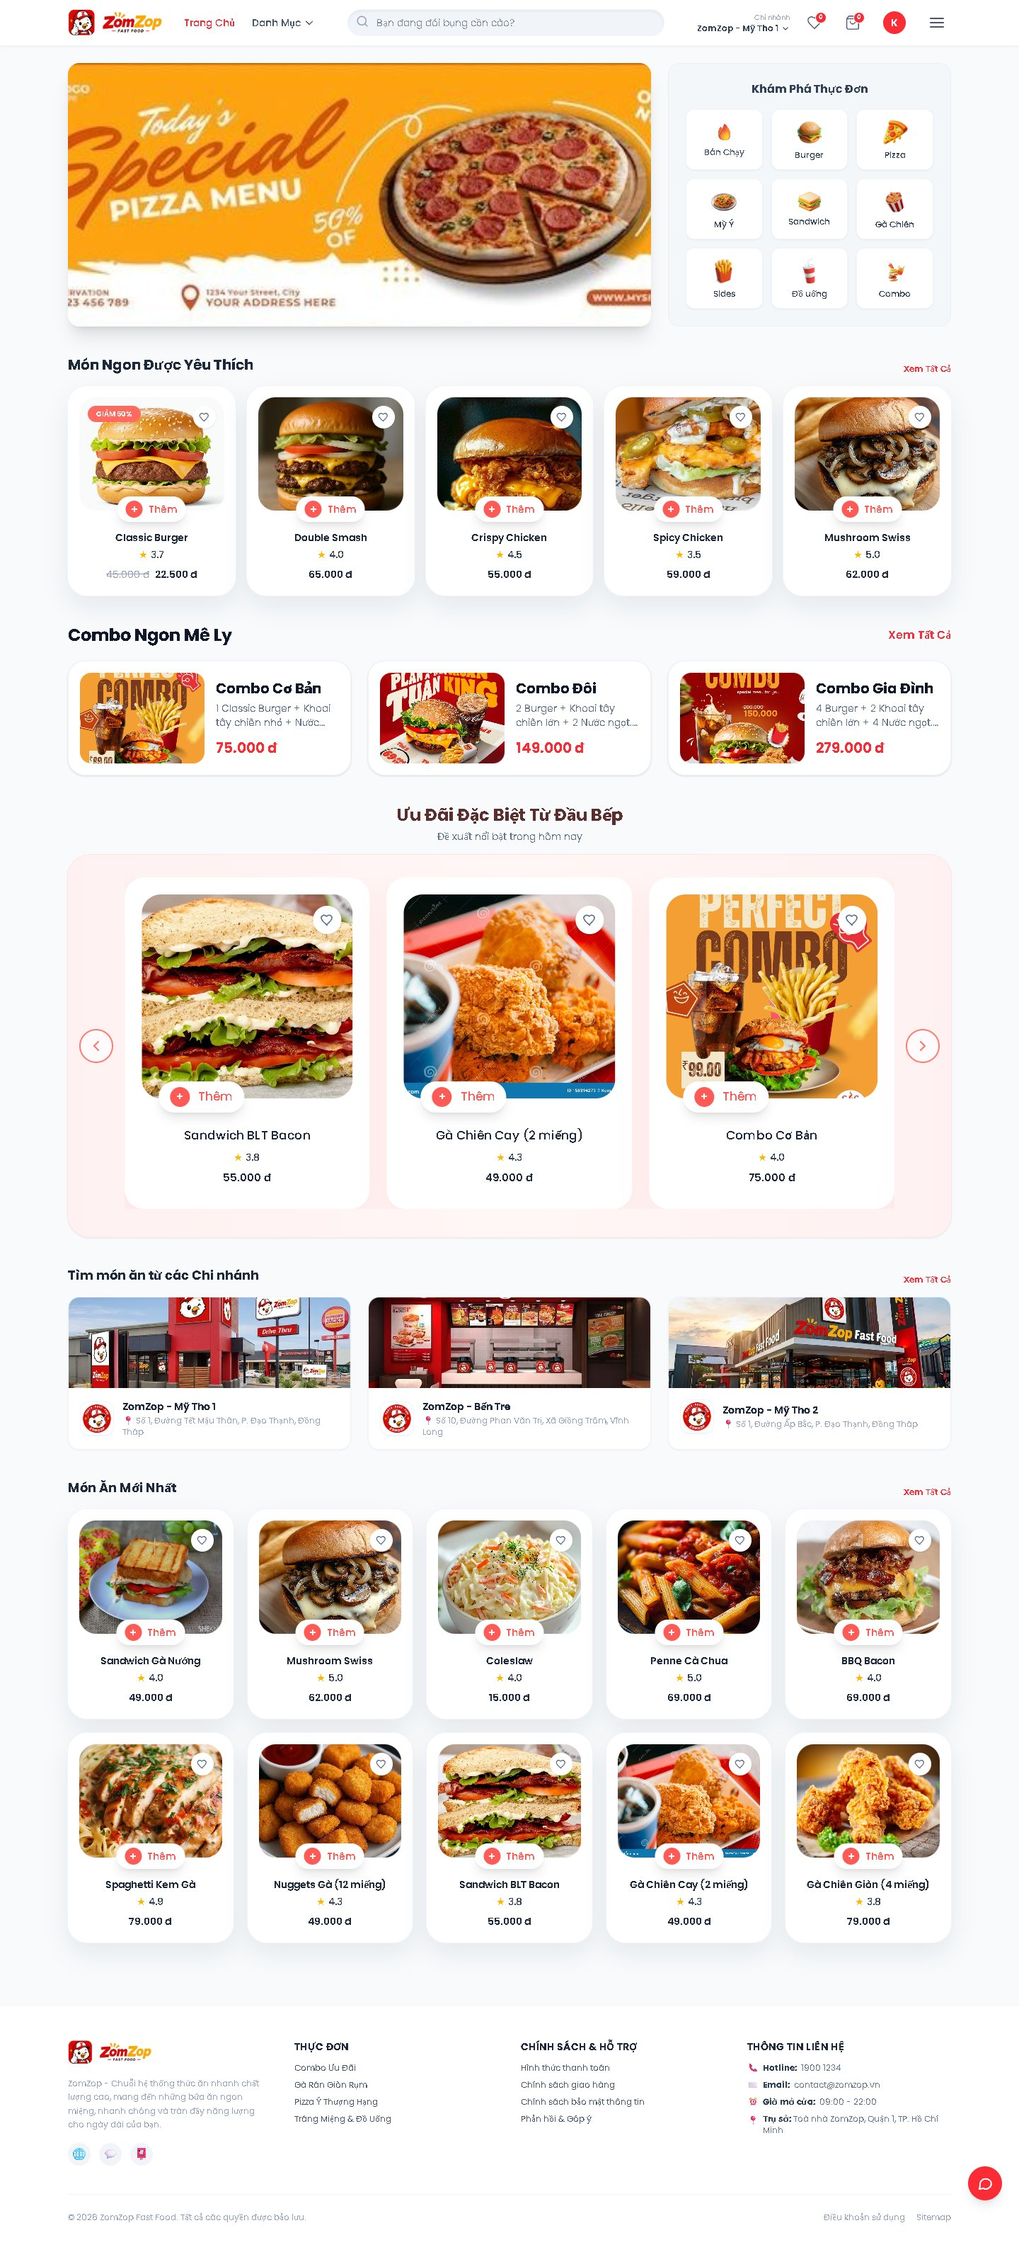
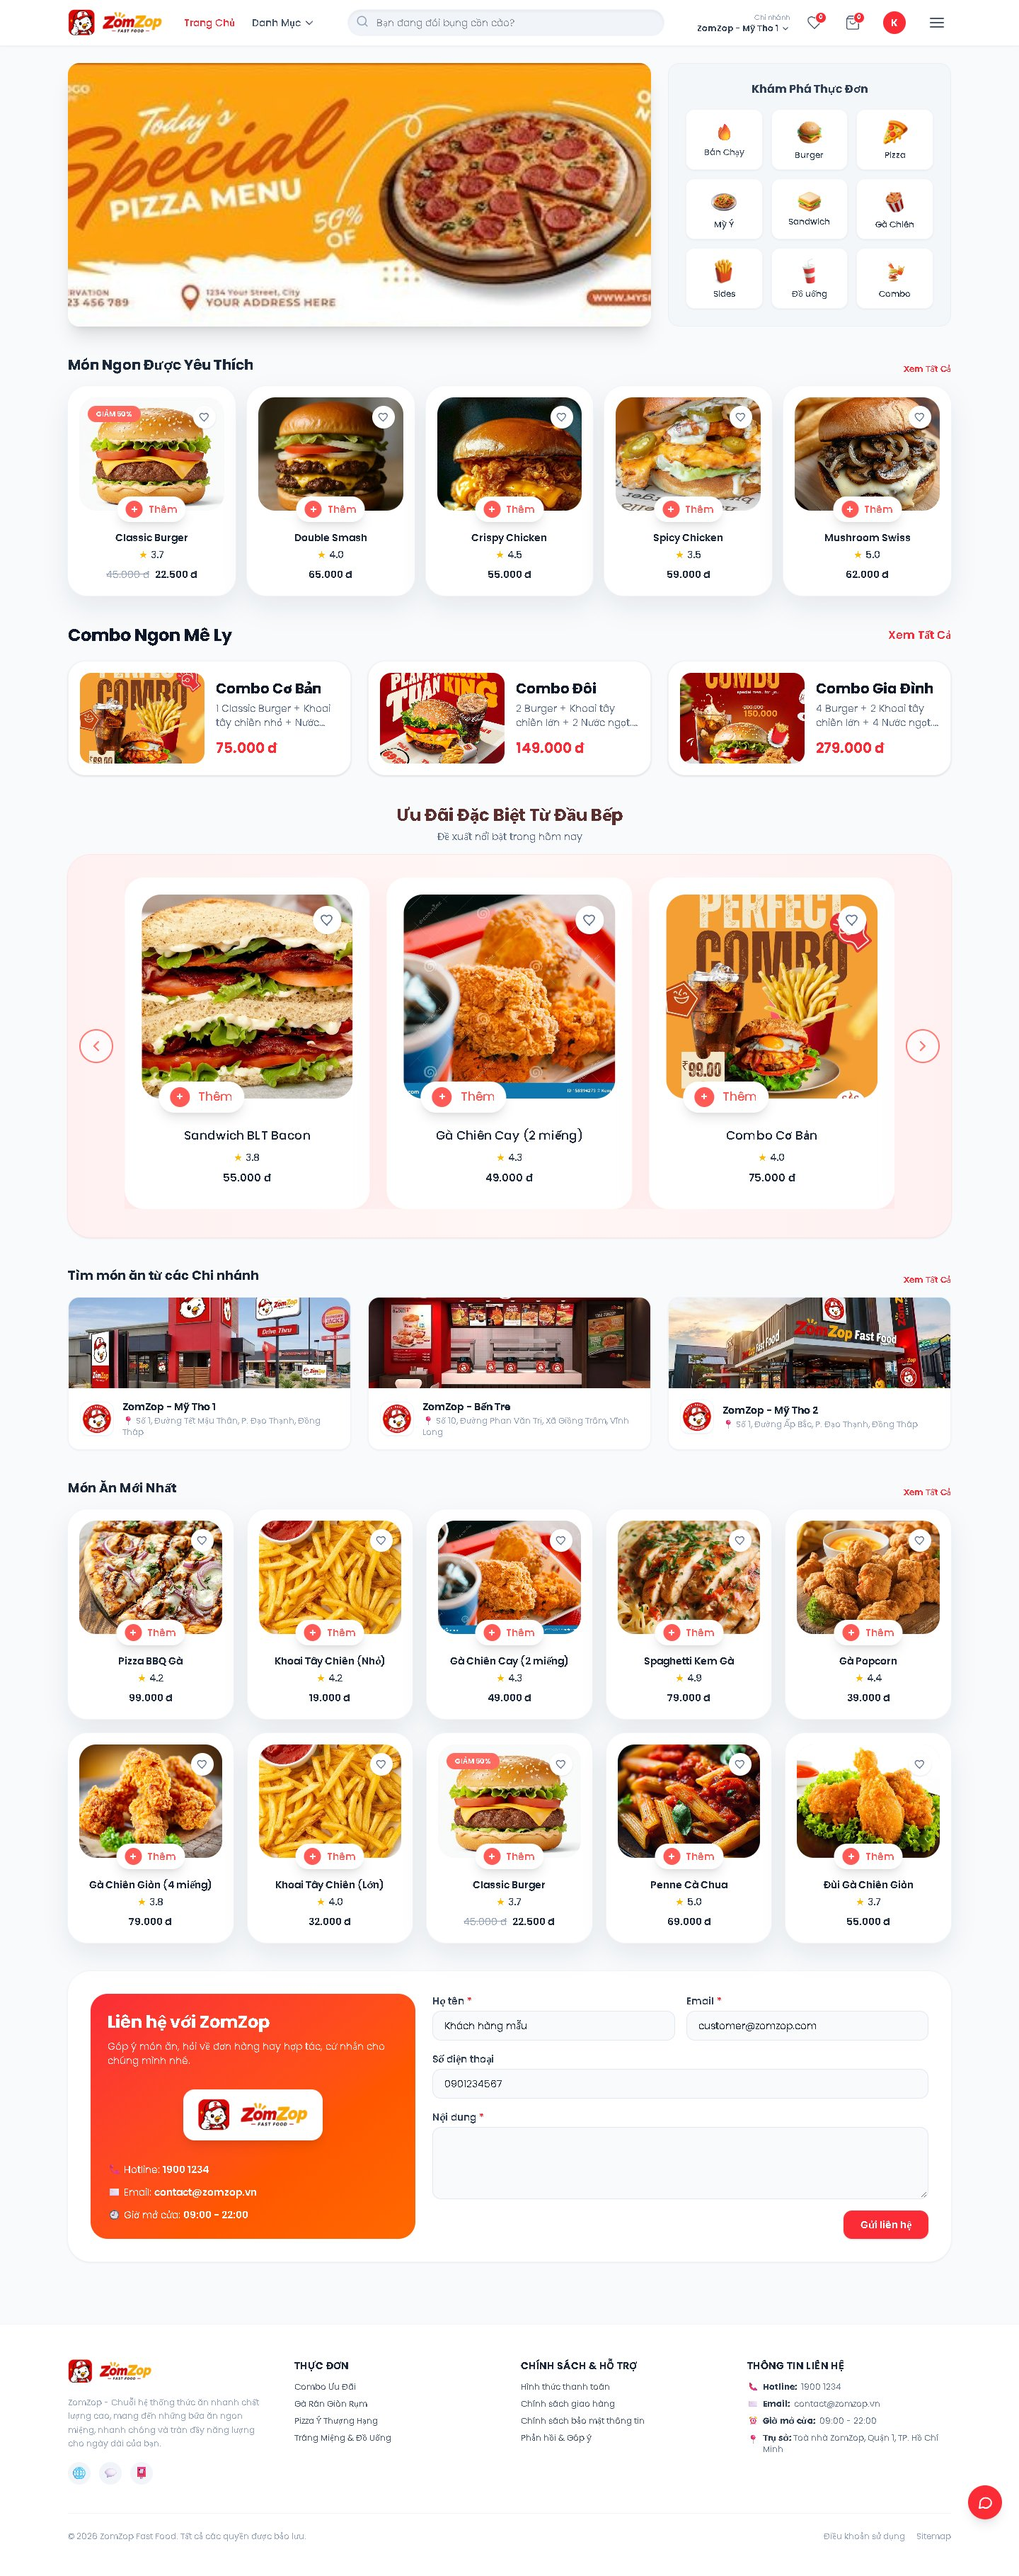
docs: README cập nhật ảnh trang chủ và form liên hệ

diff --git a/README.md b/README.md
@@ -27,10 +27,10 @@ Hệ thống phục vụ 5 nhóm người dùng:
 
 | Vai trò | Làm được gì |
 |---|---|
-| **Khách hàng** | Xem menu theo chi nhánh, tìm món, giỏ hàng, mã giảm giá, đặt và theo dõi đơn, yêu thích, đánh giá, hỏi chatbot |
+| **Khách hàng** | Xem menu theo chi nhánh, tìm món, giỏ hàng, mã giảm giá, đặt và theo dõi đơn, yêu thích, đánh giá, hỏi chatbot, gửi liên hệ |
 | **Quản lý chi nhánh** | Duyệt đơn, chỉnh menu và giá chi nhánh, gắn món Bán chạy, chọn món đề xuất, nhân sự, ca làm, chấm công, bảng lương, báo cáo |
 | **Nhân viên / Bếp** | Chấm công bằng khuôn mặt tại máy ở quầy |
-| **Admin** | Chi nhánh, tài khoản quản lý, món và danh mục, banner, mã giảm giá, cài đặt, từ khoá chatbot, nhật ký thao tác |
+| **Admin** | Chi nhánh, tài khoản quản lý, món và danh mục, banner, mã giảm giá, cài đặt, từ khoá chatbot, tin nhắn liên hệ, nhật ký thao tác |
 
 ## Dành cho khách hàng
 
@@ -46,6 +46,7 @@ Hệ thống phục vụ 5 nhóm người dùng:
 - **Ưu Đãi Đặc Biệt Từ Đầu Bếp**: các món quản lý chi nhánh chọn, tự chuyển slide
 - Mỗi thẻ món hiện **điểm sao** trung bình từ đánh giá của khách
 - Giá và món hiển thị đúng theo chi nhánh khách đã chọn
+- **Form liên hệ** cuối trang: khách vãng lai cũng gửi được, tin nhắn được chuyển tới trang admin
 
 </td>
 </tr>
@@ -109,7 +110,7 @@ Ngoài ra còn có:
 |---|---|
 | <img src="docs/screenshots/admin-dashboard.jpg" alt="Dashboard admin"> | <img src="docs/screenshots/admin-chatbot.jpg" alt="Quản lý từ khoá chatbot"> |
 
-Quản lý chi nhánh, tài khoản quản lý, nhân viên, khách hàng, đơn hàng, chấm công và bảng lương toàn chuỗi; danh mục và món ăn (nhiều ảnh mỗi món); banner trang chủ; mã giảm giá (gửi thông báo cho khách); cài đặt chung (thông tin liên hệ, phương thức thanh toán); từ khoá chatbot; nhật ký thao tác.
+Quản lý chi nhánh, tài khoản quản lý, nhân viên, khách hàng, đơn hàng, chấm công và bảng lương toàn chuỗi; danh mục và món ăn (nhiều ảnh mỗi món); banner trang chủ; mã giảm giá (gửi thông báo cho khách); cài đặt chung (thông tin liên hệ, phương thức thanh toán); từ khoá chatbot; **tin nhắn liên hệ** từ trang chủ (đánh dấu đã xử lý); nhật ký thao tác.
 
 ## Công nghệ
 
